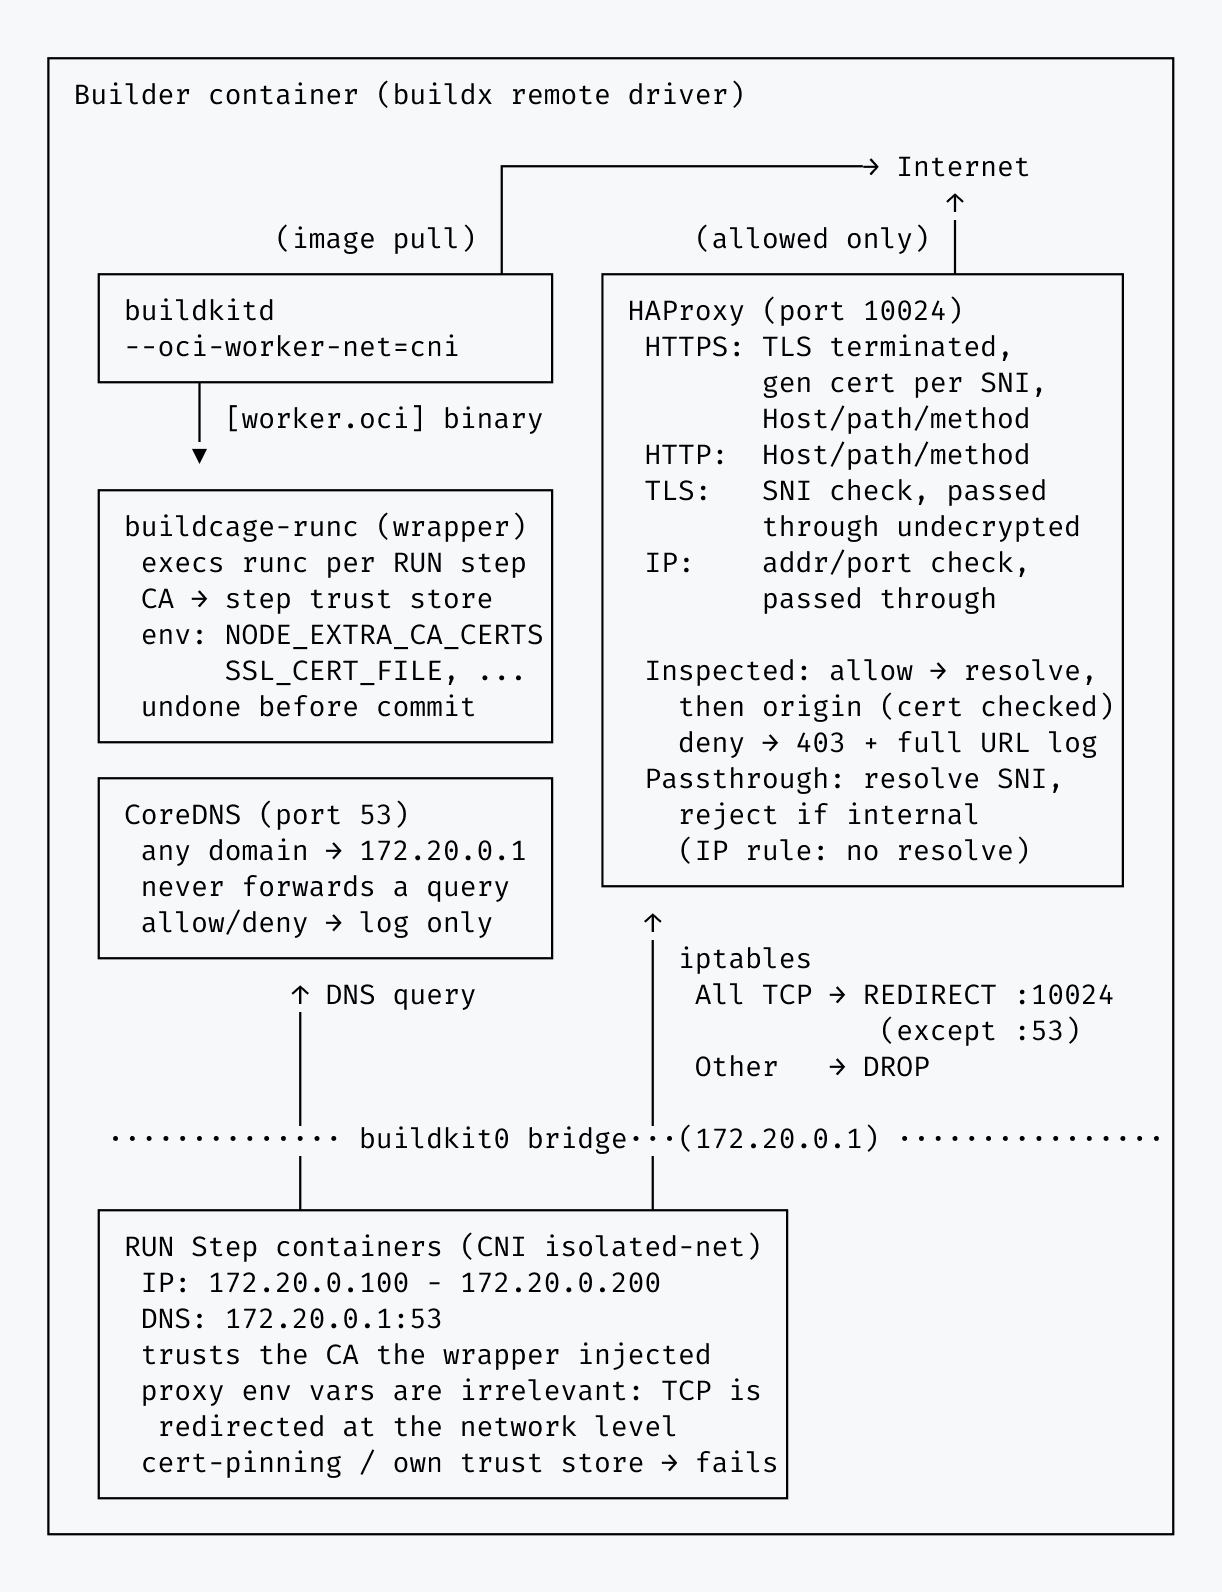
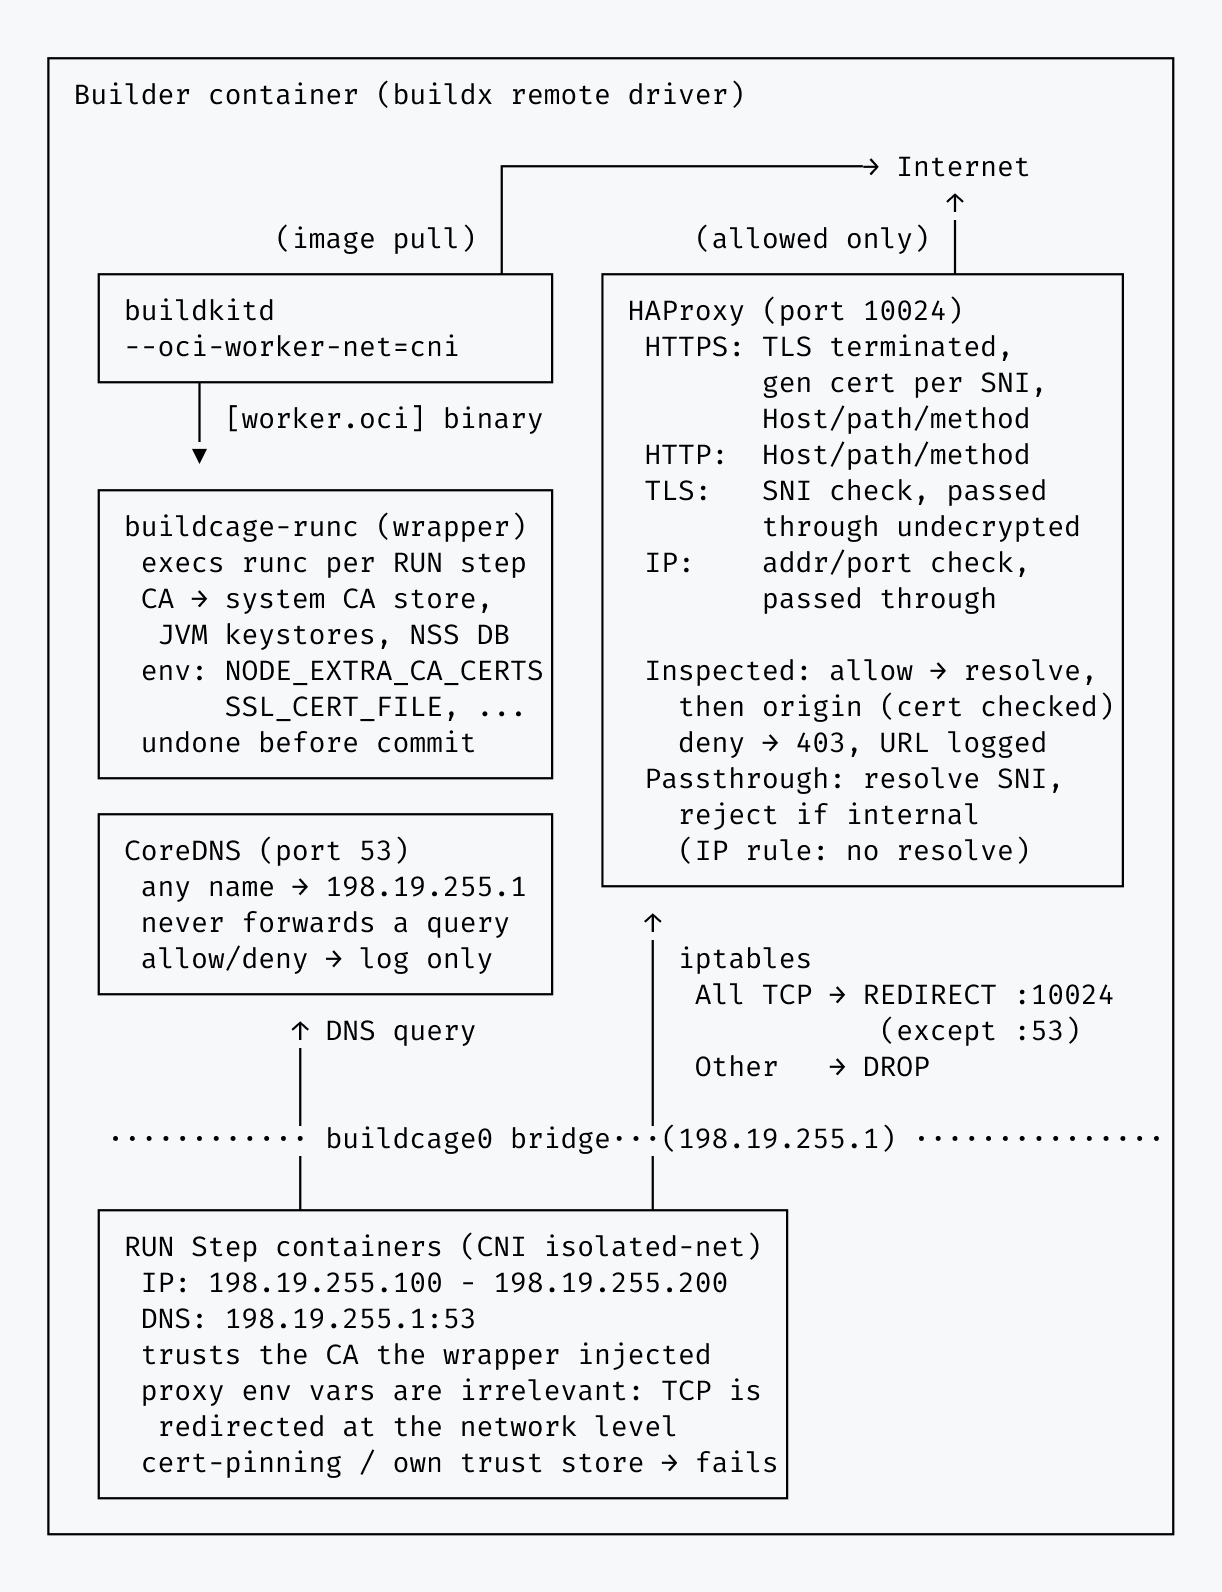
docs: update the architecture diagrams to the current network and CA setup

diff --git a/docs/security.md b/docs/security.md
@@ -223,7 +223,7 @@ front of it; `inspect` terminates TLS and reads the request. For choosing betwee
 
 ### Universal proxy engine
 
-<img src="../assets/diagram-architecture-universal.png" alt="Universal proxy engine architecture" width="611" height="490">
+<img src="../assets/diagram-architecture-universal.png" alt="Universal proxy engine architecture" width="611" height="544">
 
 The engine to fall back to when something in the build cannot accept the `inspect` engine's CA. It
 decrypts nothing: HAProxy classifies each connection by what it can read at the front of it, then
